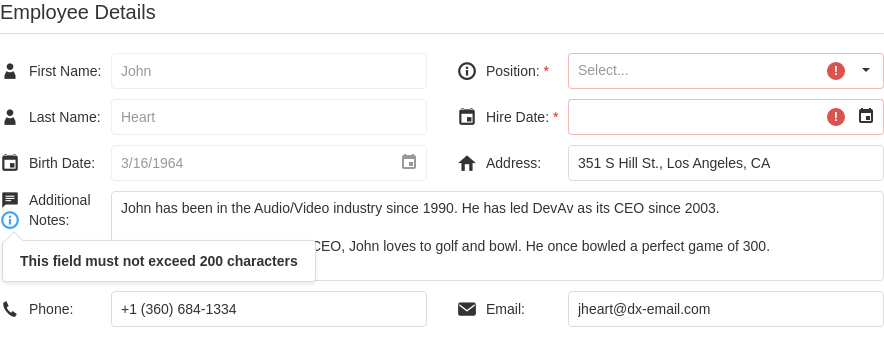
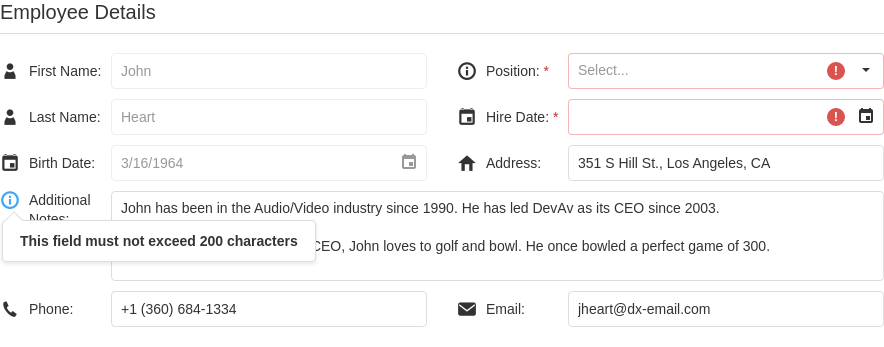
Form CustomizeItem demo & Calendar: fix notes after PM review (#2210)

Changed region(s): [[0.0, 0.5476, 0.336, 0.7781], [0.1222, 0.8069, 0.3665, 0.8357]]

diff --git a/JSDemos/Demos/Calendar/Overview/React/App.js b/JSDemos/Demos/Calendar/Overview/React/App.js
@@ -104,21 +104,21 @@ export default function App() {
         <div className="option">
           <CheckBox
             defaultValue={false}
-            text="Specify min value"
+            text="Set minimum date"
             onValueChanged={onMinDateChange}
           />
         </div>
         <div className="option">
           <CheckBox
             defaultValue={false}
-            text="Specify max value"
+            text="Set maximum date"
             onValueChanged={onMaxDateChange}
           />
         </div>
         <div className="option">
           <CheckBox
             defaultValue={false}
-            text="Disable weekend"
+            text="Disable weekends"
             onValueChanged={onDisableWeekendChange}
           />
         </div>
@@ -139,7 +139,7 @@ export default function App() {
         <div className="option">
           <CheckBox
             value={disabled}
-            text="Disabled"
+            text="Disable the calendar"
             onValueChanged={onDisabledChange}
           />
         </div>

diff --git a/JSDemos/Demos/Calendar/Overview/AngularJS/index.html b/JSDemos/Demos/Calendar/Overview/AngularJS/index.html
@@ -38,7 +38,7 @@
         <div class="option">
           <div
             dx-check-box="{
-              text: 'Specify min value',
+              text: 'Set minimum date',
               value: false,
               onValueChanged: setMinDate
             }"
@@ -47,7 +47,7 @@
         <div class="option">
           <div
             dx-check-box="{
-              text: 'Specify max value',
+              text: 'Set maximum date',
               value: false,
               onValueChanged: setMaxDate
             }"
@@ -56,7 +56,7 @@
         <div class="option">
           <div
             dx-check-box="{
-              text: 'Disable weekend',
+              text: 'Disable weekends',
               value: false,
               onValueChanged: disableWeekend
             }"
@@ -86,7 +86,7 @@
             dx-check-box="{
               text: 'Disabled',
               bindingOptions: {
-                  value: 'disabled'
+                  value: 'Disable the calendar'
               }
             }"
           ></div>

diff --git a/JSDemos/Demos/Calendar/Overview/Angular/app/app.component.html b/JSDemos/Demos/Calendar/Overview/Angular/app/app.component.html
@@ -25,7 +25,7 @@
     <div class="caption">Options</div>
     <div class="option">
       <dx-check-box
-        text="Specify min value"
+        text="Set minimum date"
         [value]="false"
         (onValueChanged)="setMinDate($event)"
       >
@@ -33,7 +33,7 @@
     </div>
     <div class="option">
       <dx-check-box
-        text="Specify max value"
+        text="Set maximum date"
         [value]="false"
         (onValueChanged)="setMaxDate($event)"
       >
@@ -41,7 +41,7 @@
     </div>
     <div class="option">
       <dx-check-box
-        text="Disable weekend"
+        text="Disable weekends"
         [value]="false"
         (onValueChanged)="disableWeekend($event)"
       >
@@ -63,7 +63,7 @@
       </dx-check-box>
     </div>
     <div class="option">
-      <dx-check-box [(value)]="calendar.disabled" text="Disabled">
+      <dx-check-box [(value)]="calendar.disabled" text="Disable the calendar">
       </dx-check-box>
     </div>
     <div class="option">

diff --git a/JSDemos/Demos/Form/CustomizeItem/jQuery/index.js b/JSDemos/Demos/Form/CustomizeItem/jQuery/index.js
@@ -76,10 +76,10 @@ $(() => {
         label: {
           template: (data, element) => {
             const lineBreak = '<br>';
-            const commentIcon = '<i class="dx-icon dx-icon-comment"></i>';
             const infoIcon = '<i id="helpedInfo" class="dx-icon dx-icon-info"></i>';
+            const labelText = `Additional${lineBreak}${data.text}`;
 
-            element.append(`<span>${commentIcon}Additional${lineBreak}${infoIcon}${data.text}</span>`);
+            element.append(`<div id='template-content'>${infoIcon}${labelText}</div>`);
 
             $('<div>').dxTooltip({
               target: '#helpedInfo',
@@ -112,6 +112,6 @@ $(() => {
   $('#form').dxForm('instance').validate();
 
   function labelTemplate(iconName) {
-    return (data) => $(`<span><i class='dx-icon dx-icon-${iconName}'></i>${data.text}</span>`);
+    return (data) => $(`<div><i class='dx-icon dx-icon-${iconName}'></i>${data.text}</div>`);
   }
 });

diff --git a/JSDemos/Demos/Calendar/Overview/jQuery/index.js b/JSDemos/Demos/Calendar/Overview/jQuery/index.js
@@ -31,7 +31,7 @@ $(() => {
   }).dxCalendar('instance');
 
   $('#min-date').dxCheckBox({
-    text: 'Specify min value',
+    text: 'Set minimum date',
     onValueChanged(data) {
       const minDate = new Date(date - msInDay * 3);
 
@@ -41,7 +41,7 @@ $(() => {
   });
 
   $('#max-date').dxCheckBox({
-    text: 'Specify max value',
+    text: 'Set maximum date',
     onValueChanged(data) {
       const maxDate = new Date(date + msInDay * 3);
 
@@ -51,7 +51,7 @@ $(() => {
   });
 
   $('#disable-dates').dxCheckBox({
-    text: 'Disable weekend',
+    text: 'Disable weekends',
     onValueChanged(data) {
       if (data.value) {
         calendar.option('disabledDates', (d) => d.view === 'month' && isWeekend(d.date));
@@ -69,7 +69,7 @@ $(() => {
   });
 
   $('#disabled').dxCheckBox({
-    text: 'Disabled',
+    text: 'Disable the calendar',
     onValueChanged(data) {
       calendar.option('disabled', data.value);
     },

diff --git a/JSDemos/Demos/Calendar/Overview/Vue/App.vue b/JSDemos/Demos/Calendar/Overview/Vue/App.vue
@@ -25,21 +25,21 @@
       <div class="option">
         <DxCheckBox
           :value="false"
-          text="Specify min value"
+          text="Set minimum date"
           @value-changed="setMinDate"
         />
       </div>
       <div class="option">
         <DxCheckBox
           :value="false"
-          text="Specify max value"
+          text="Set maximum date"
           @value-changed="setMaxDate"
         />
       </div>
       <div class="option">
         <DxCheckBox
           :value="false"
-          text="Disable weekend"
+          text="Disable weekends"
           @value-changed="disableWeekend"
         />
       </div>
@@ -59,7 +59,7 @@
       <div class="option">
         <DxCheckBox
           v-model:value="disabled"
-          text="Disabled"
+          text="Disable the calendar"
         />
       </div>
       <div class="option">

diff --git a/JSDemos/Demos/Form/CustomizeItem/Angular/app/app.component.html b/JSDemos/Demos/Form/CustomizeItem/Angular/app/app.component.html
@@ -57,16 +57,17 @@
 
     <ng-container *ngFor="let label of labelTemplates">
       <div *dxTemplate="let data of label.name">
-        <span><i class="dx-icon {{ label.icon }}"></i>{{ data.text }}</span>
+        <div><i class="dx-icon {{ label.icon }}"></i>{{ data.text }}</div>
       </div>
     </ng-container>
 
     <div *dxTemplate="let data of 'notes'">
-      <span>
-        <i class="dx-icon dx-icon-comment"></i>Additional
+      <div id="template-content">
+        <i id="helpedInfo" class="dx-icon dx-icon-info"></i>
+        Additional
         <br />
-        <i id="helpedInfo" class="dx-icon dx-icon-info"></i>{{ data.text }}
-      </span>
+        {{ data.text }}
+      </div>
 
       <dx-tooltip
         target="#helpedInfo"

diff --git a/JSDemos/Demos/Form/CustomizeItem/Vue/LabelNotesTemplate.vue b/JSDemos/Demos/Form/CustomizeItem/Vue/LabelNotesTemplate.vue
@@ -1,11 +1,13 @@
 <template>
-  <span>
-    <i class="dx-icon dx-icon-comment"/>Additional
-    <br>
+  <div id="template-content">
     <i
       id="helpedInfo"
       class="dx-icon dx-icon-info"
-    />{{ data.text }}
+    />
+    Additional
+    <br>
+    {{ data.text }}
+
     <DxTooltip
       target="#helpedInfo"
       show-event="mouseenter"
@@ -15,7 +17,7 @@
         <div id="tooltip-content">This field must not exceed 200 characters</div>
       </template>
     </DxTooltip>
-  </span>
+  </div>
 </template>
 <script>
 import { DxTooltip } from 'devextreme-vue/tooltip';
@@ -40,5 +42,9 @@ export default {
 #tooltip-content {
   font-size: 14px;
   font-weight: bold;
+}
+
+#template-content {
+  display: inline-flex;
 }
 </style>

diff --git a/JSDemos/Demos/Form/CustomizeItem/React/LabelNotesTemplate.js b/JSDemos/Demos/Form/CustomizeItem/React/LabelNotesTemplate.js
@@ -4,13 +4,12 @@ import { Tooltip } from 'devextreme-react/tooltip';
 function LabelNotesTemplate(data) {
   return (
     <React.Fragment>
-      <span>
-        <i className="dx-icon dx-icon-comment"></i>
+      <div id="template-content">
+        <i id="helpedInfo" className="dx-icon dx-icon-info"></i>
         Additional
         <br />
-        <i id="helpedInfo" className="dx-icon dx-icon-info"></i>
         { data.text }
-      </span>
+      </div>
 
       <Tooltip
         target="#helpedInfo"

diff --git a/JSDemos/Demos/Form/CustomizeItem/React/LabelTemplate.js b/JSDemos/Demos/Form/CustomizeItem/React/LabelTemplate.js
@@ -2,6 +2,6 @@ import React from 'react';
 
 export default function LabelTemplate(iconName) {
   return function template(data) {
-    return (<span><i className={`dx-icon dx-icon-${iconName}`}></i>{ data.text }</span>);
+    return (<div><i className={`dx-icon dx-icon-${iconName}`}></i>{ data.text }</div>);
   };
 }

diff --git a/JSDemos/Demos/Form/CustomizeItem/Vue/LabelTemplate.vue b/JSDemos/Demos/Form/CustomizeItem/Vue/LabelTemplate.vue
@@ -1,7 +1,7 @@
 <template>
-  <span>
+  <div>
     <i :class="iconClass"/>{{ data.text }}
-  </span>
+  </div>
 </template>
 <script>
 export default {

diff --git a/JSDemos/Demos/Form/CustomizeItem/Angular/app/app.component.css b/JSDemos/Demos/Form/CustomizeItem/Angular/app/app.component.css
@@ -6,3 +6,7 @@
   font-size: 14px;
   font-weight: bold;
 }
+
+::ng-deep #template-content {
+  display: inline-flex;
+}
